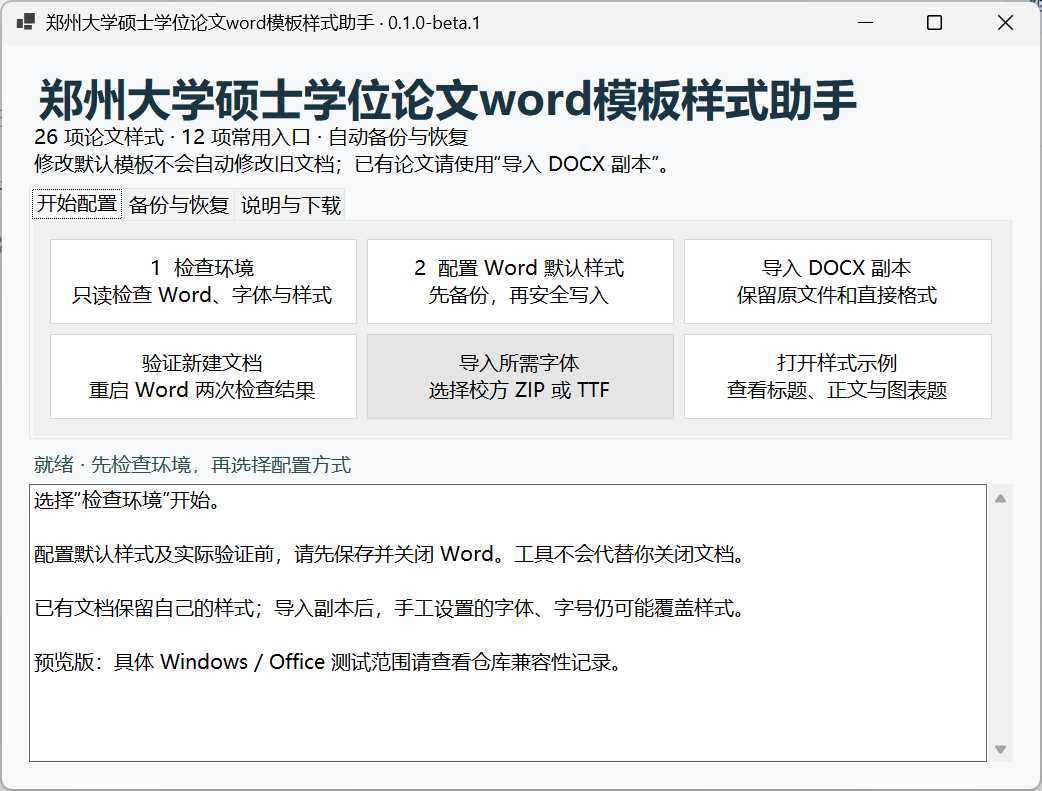
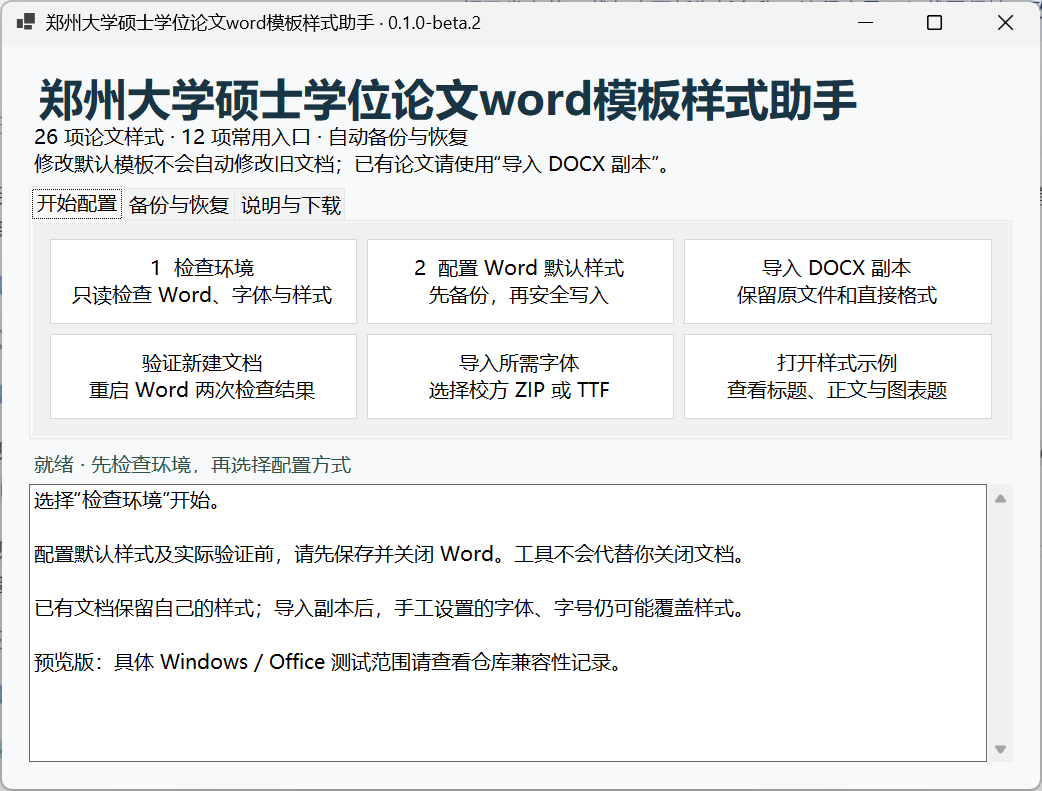
Prepare beta.2 with renamed assistant

Changed region(s): [[0.3378, 0.4248, 0.6449, 0.5461], [0.9827, 0.0, 1.0, 0.0303]]

diff --git a/src/ZZUWordStyles.App/AssetStore.cs b/src/ZZUWordStyles.App/AssetStore.cs
@@ -5,7 +5,7 @@ namespace ZZUWordStyles.App;
 
 internal static class AssetStore
 {
-    public const string Version = "0.1.0-beta.1"; // 此版本与发布标签对应。
+    public const string Version = "0.1.0-beta.2"; // 此版本与发布标签对应。
     public static string DataRoot => Path.Combine(Environment.GetFolderPath(Environment.SpecialFolder.LocalApplicationData), "ZZUWordStyles"); // 所有运行记录只在当前用户目录。
     public static string BackupRoot => Path.Combine(DataRoot, "backups"); // 完整备份与公开下载目录分开。
     public static byte[] Read(bool example = false)

diff --git a/README.md b/README.md
@@ -6,15 +6,17 @@
 
 ## 下载
 
-首版为 **v0.1.0-beta.1 预览版**。请在 [发布页](https://github.com/pancake-github/zzu-thesis-word-styles/releases/tag/v0.1.0-beta.1) 的 Assets 区域下载：
+当前为 **v0.1.0-beta.2 预览版**。请在 [发布页](https://github.com/pancake-github/zzu-thesis-word-styles/releases/tag/v0.1.0-beta.2) 的 Assets 区域下载：
 
 | 下载文件 | 适合谁 |
 |---|---|
-| [Windows 中文助手 ZIP](https://github.com/pancake-github/zzu-thesis-word-styles/releases/download/v0.1.0-beta.1/ZZUWordStyles-v0.1.0-beta.1-win-x64.zip) | 希望为本机 Word 配置默认样式、导入旧文档副本或管理备份 |
-| [仅模板 ZIP](https://github.com/pancake-github/zzu-thesis-word-styles/releases/download/v0.1.0-beta.1/ZZUWordStyles-v0.1.0-beta.1-templates.zip) | 希望只在论文中使用独立 DOTX 模板与示例 DOCX |
-| [SHA256SUMS.txt](https://github.com/pancake-github/zzu-thesis-word-styles/releases/download/v0.1.0-beta.1/SHA256SUMS.txt) | 核对下载文件是否完整 |
+| [Windows 中文助手 ZIP](https://github.com/pancake-github/zzu-thesis-word-styles/releases/download/v0.1.0-beta.2/ZZUWordStyles-v0.1.0-beta.2-win-x64.zip) | 希望为本机 Word 配置默认样式、导入旧文档副本或管理备份 |
+| [仅模板 ZIP](https://github.com/pancake-github/zzu-thesis-word-styles/releases/download/v0.1.0-beta.2/ZZUWordStyles-v0.1.0-beta.2-templates.zip) | 希望只在论文中使用独立 DOTX 模板与示例 DOCX |
+| [SHA256SUMS.txt](https://github.com/pancake-github/zzu-thesis-word-styles/releases/download/v0.1.0-beta.2/SHA256SUMS.txt) | 核对下载文件是否完整 |
 
 助手自带 .NET 运行时，不需要安装 Python、额外的 .NET 或 Codex。**需要已经安装并能正常启动的桌面 Microsoft Word。** 首版面向 Windows x64；具体系统与 Office 组合以 [兼容性记录](docs/兼容性与验收.md) 为准，未测试的组合不会标为支持。WPS、Mac、网页版 Word 不在本版范围内。
+
+兼容性记录中的 Word 实测属于 v0.1.0-beta.1；本版的实际验证情况以发布说明为准。
 
 ## 第一次使用
 
@@ -27,7 +29,7 @@
 
 ![中文助手首页](docs/images/assistant-home.png)
 
-截图为当前源码构建的界面预览；已发布的 v0.1.0-beta.1 下载包仍显示原名称。
+截图展示 v0.1.0-beta.2 的助手界面。
 
 > 修改默认模板不会自动修改以前保存的文档。已有文档仍保留自身样式和直接格式。
 

diff --git a/docs/开发与发布.md b/docs/开发与发布.md
@@ -28,6 +28,6 @@
 
 禁止纳入个人 Normal.dotm、备份、候选默认模板、真实论文、未经清理的日志、字体二进制、校方附件 ZIP 和完整原始规范 DOC。对 XML、JSON、Markdown、文件名和压缩包内部同时做私人路径与元数据检查。
 
-图形包命名为 `ZZUWordStyles-v0.1.0-beta.1-win-x64.zip`，模板包命名为 `ZZUWordStyles-v0.1.0-beta.1-templates.zip`。两个包的最终字节确定后生成 `SHA256SUMS.txt`，并将同一批文件用于验收及上传。
+图形包命名为 `ZZUWordStyles-v0.1.0-beta.2-win-x64.zip`，模板包命名为 `ZZUWordStyles-v0.1.0-beta.2-templates.zip`。两个包的最终字节确定后生成 `SHA256SUMS.txt`，并将同一批文件用于验收及上传。
 
 首版发布为 prerelease。维护者应在发布说明写清已验证的 Word 版本、位数、系统和未完成项目；发布后匿名下载重新核对大小与哈希。修复导致程序或资产变化时重新构建和验证，不以旧测试记录代替新文件验收。

diff --git a/CHANGELOG.md b/CHANGELOG.md
@@ -1,5 +1,10 @@
 # 更新记录
 
+## 0.1.0-beta.2
+
+- 将助手界面名称更新为“郑州大学硕士学位论文word模板样式助手”。
+- 更新说明与助手首页截图；论文样式及程序操作流程保持不变。
+
 ## 0.1.0-beta.1
 
 - 提供中文图形助手和自包含 Windows x64 下载包。

diff --git a/docs/使用指南.md b/docs/使用指南.md
@@ -6,7 +6,7 @@
 
 ![助手首页与各操作入口](images/assistant-home.png)
 
-截图为当前源码构建的界面预览；已发布的 v0.1.0-beta.1 下载包仍显示原名称。
+截图展示 v0.1.0-beta.2 的助手界面。
 
 | 你准备做什么 | 入口 | 结果 |
 |---|---|---|
